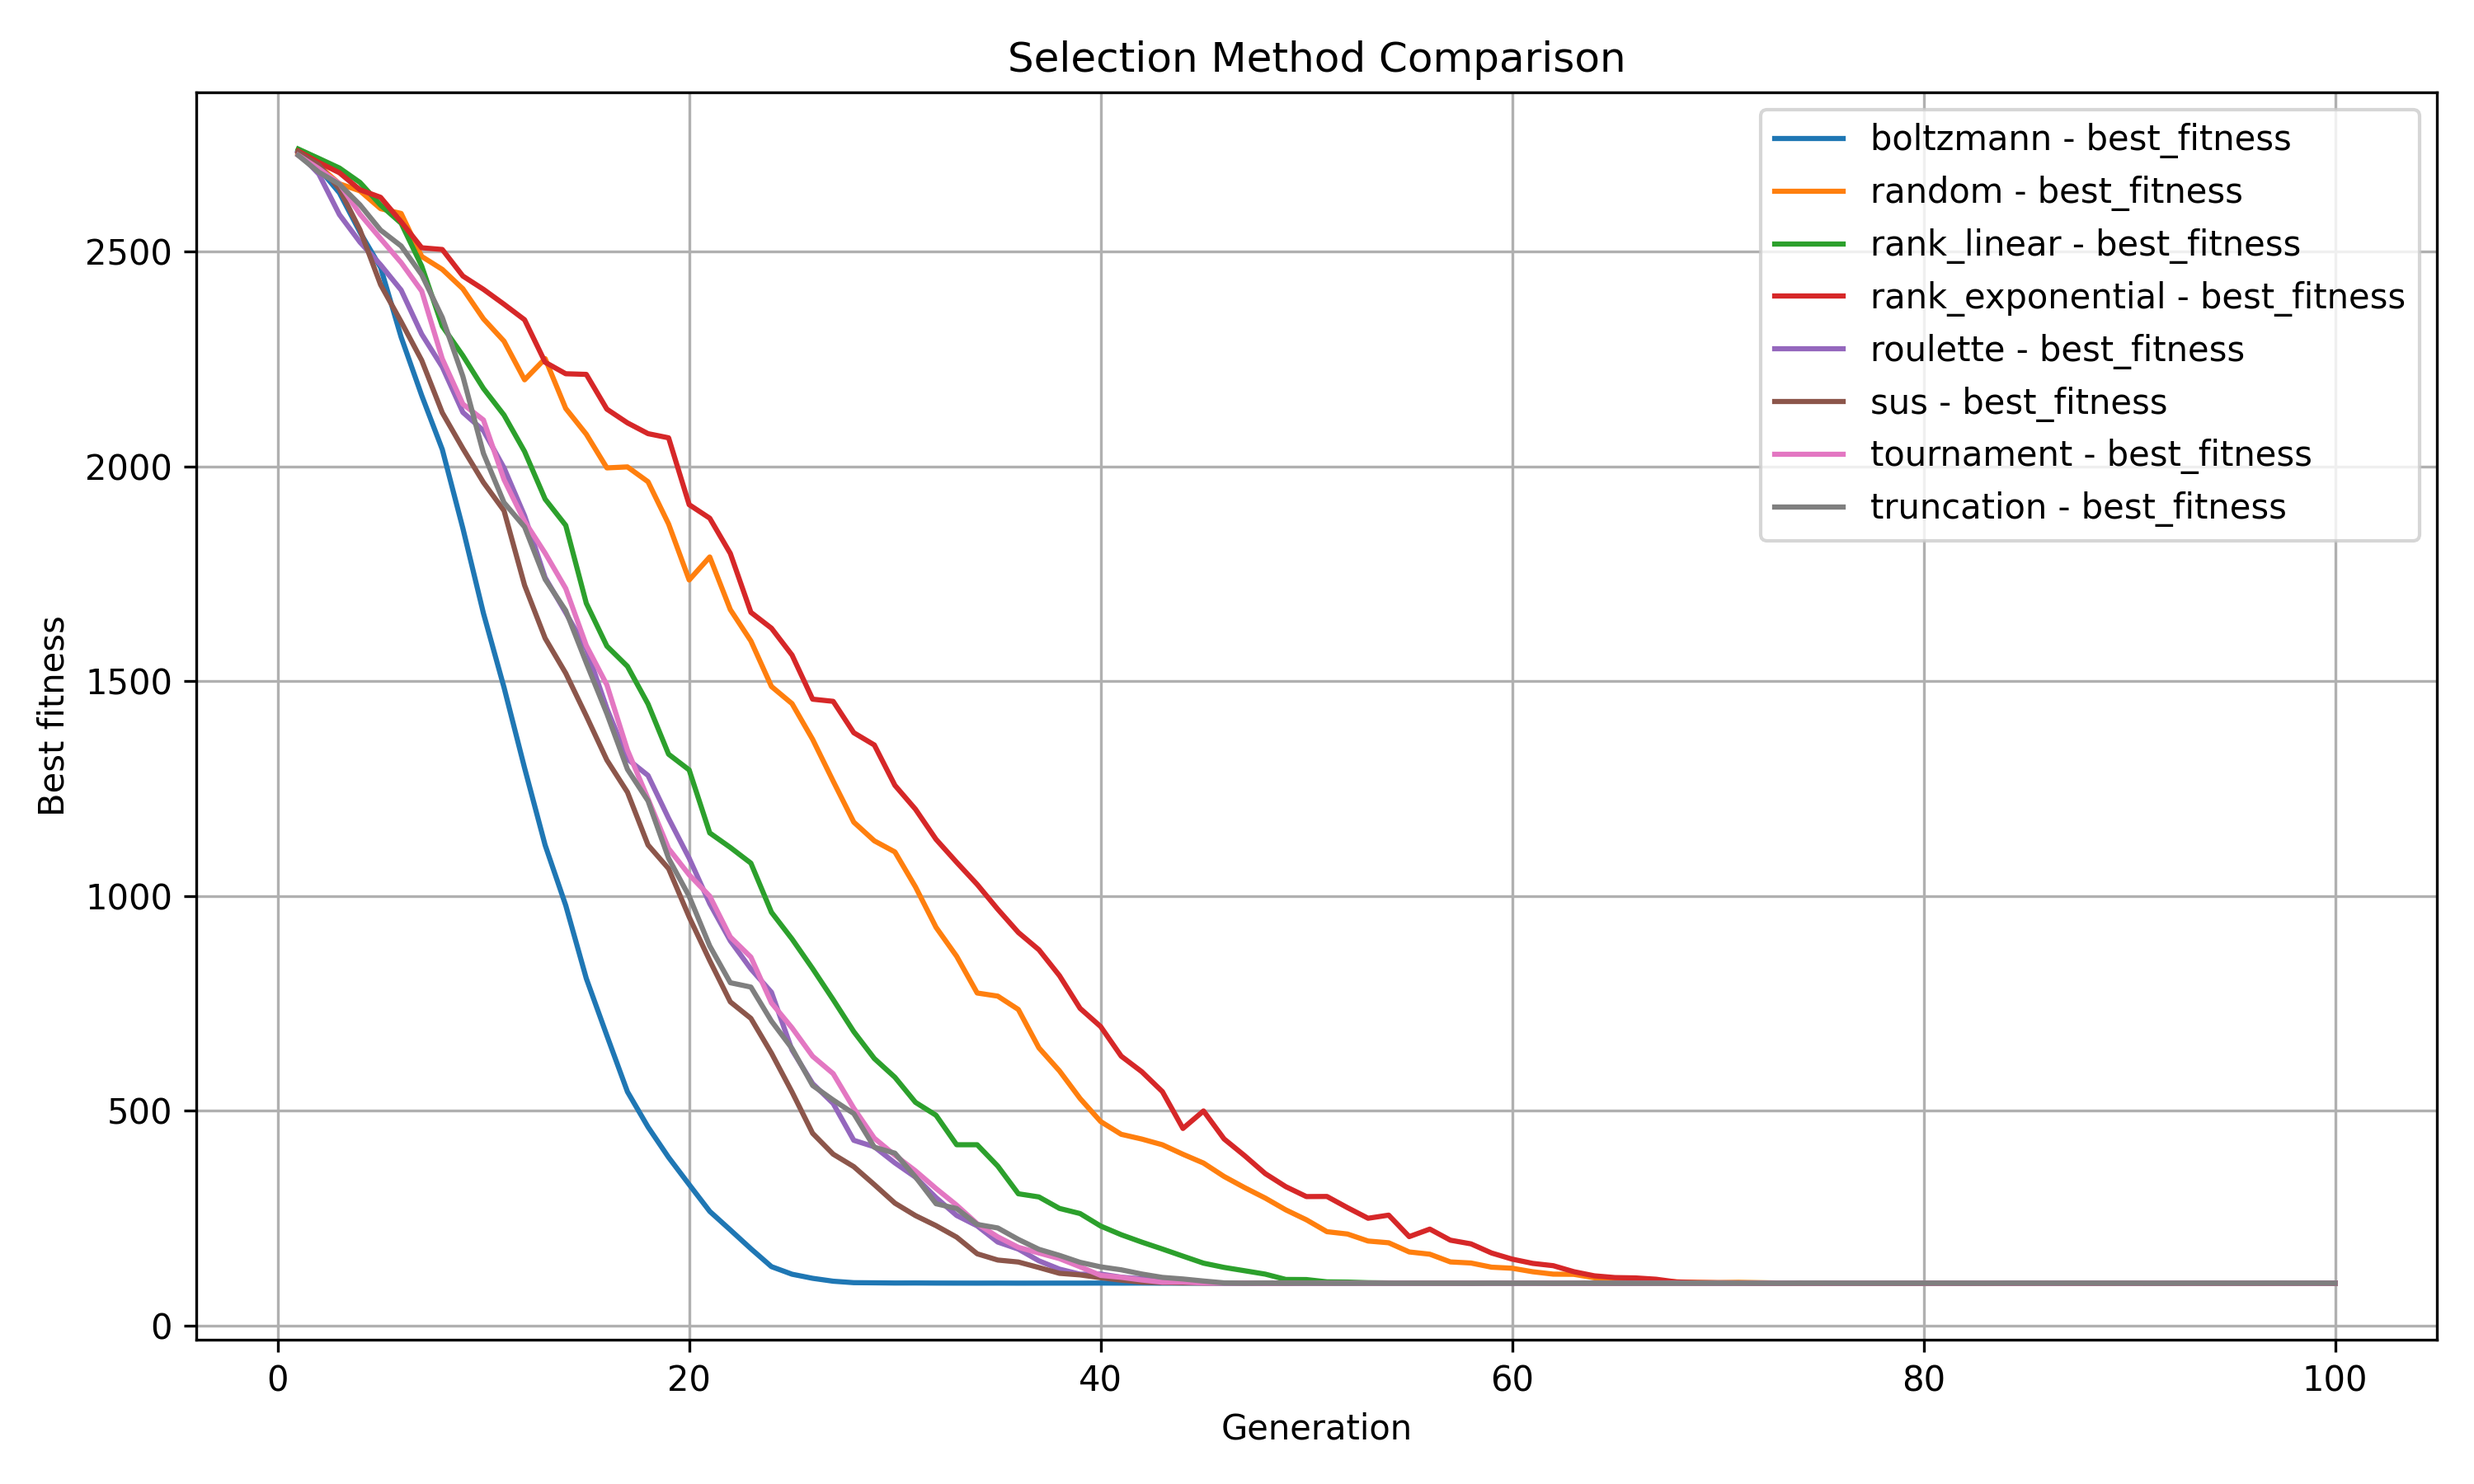
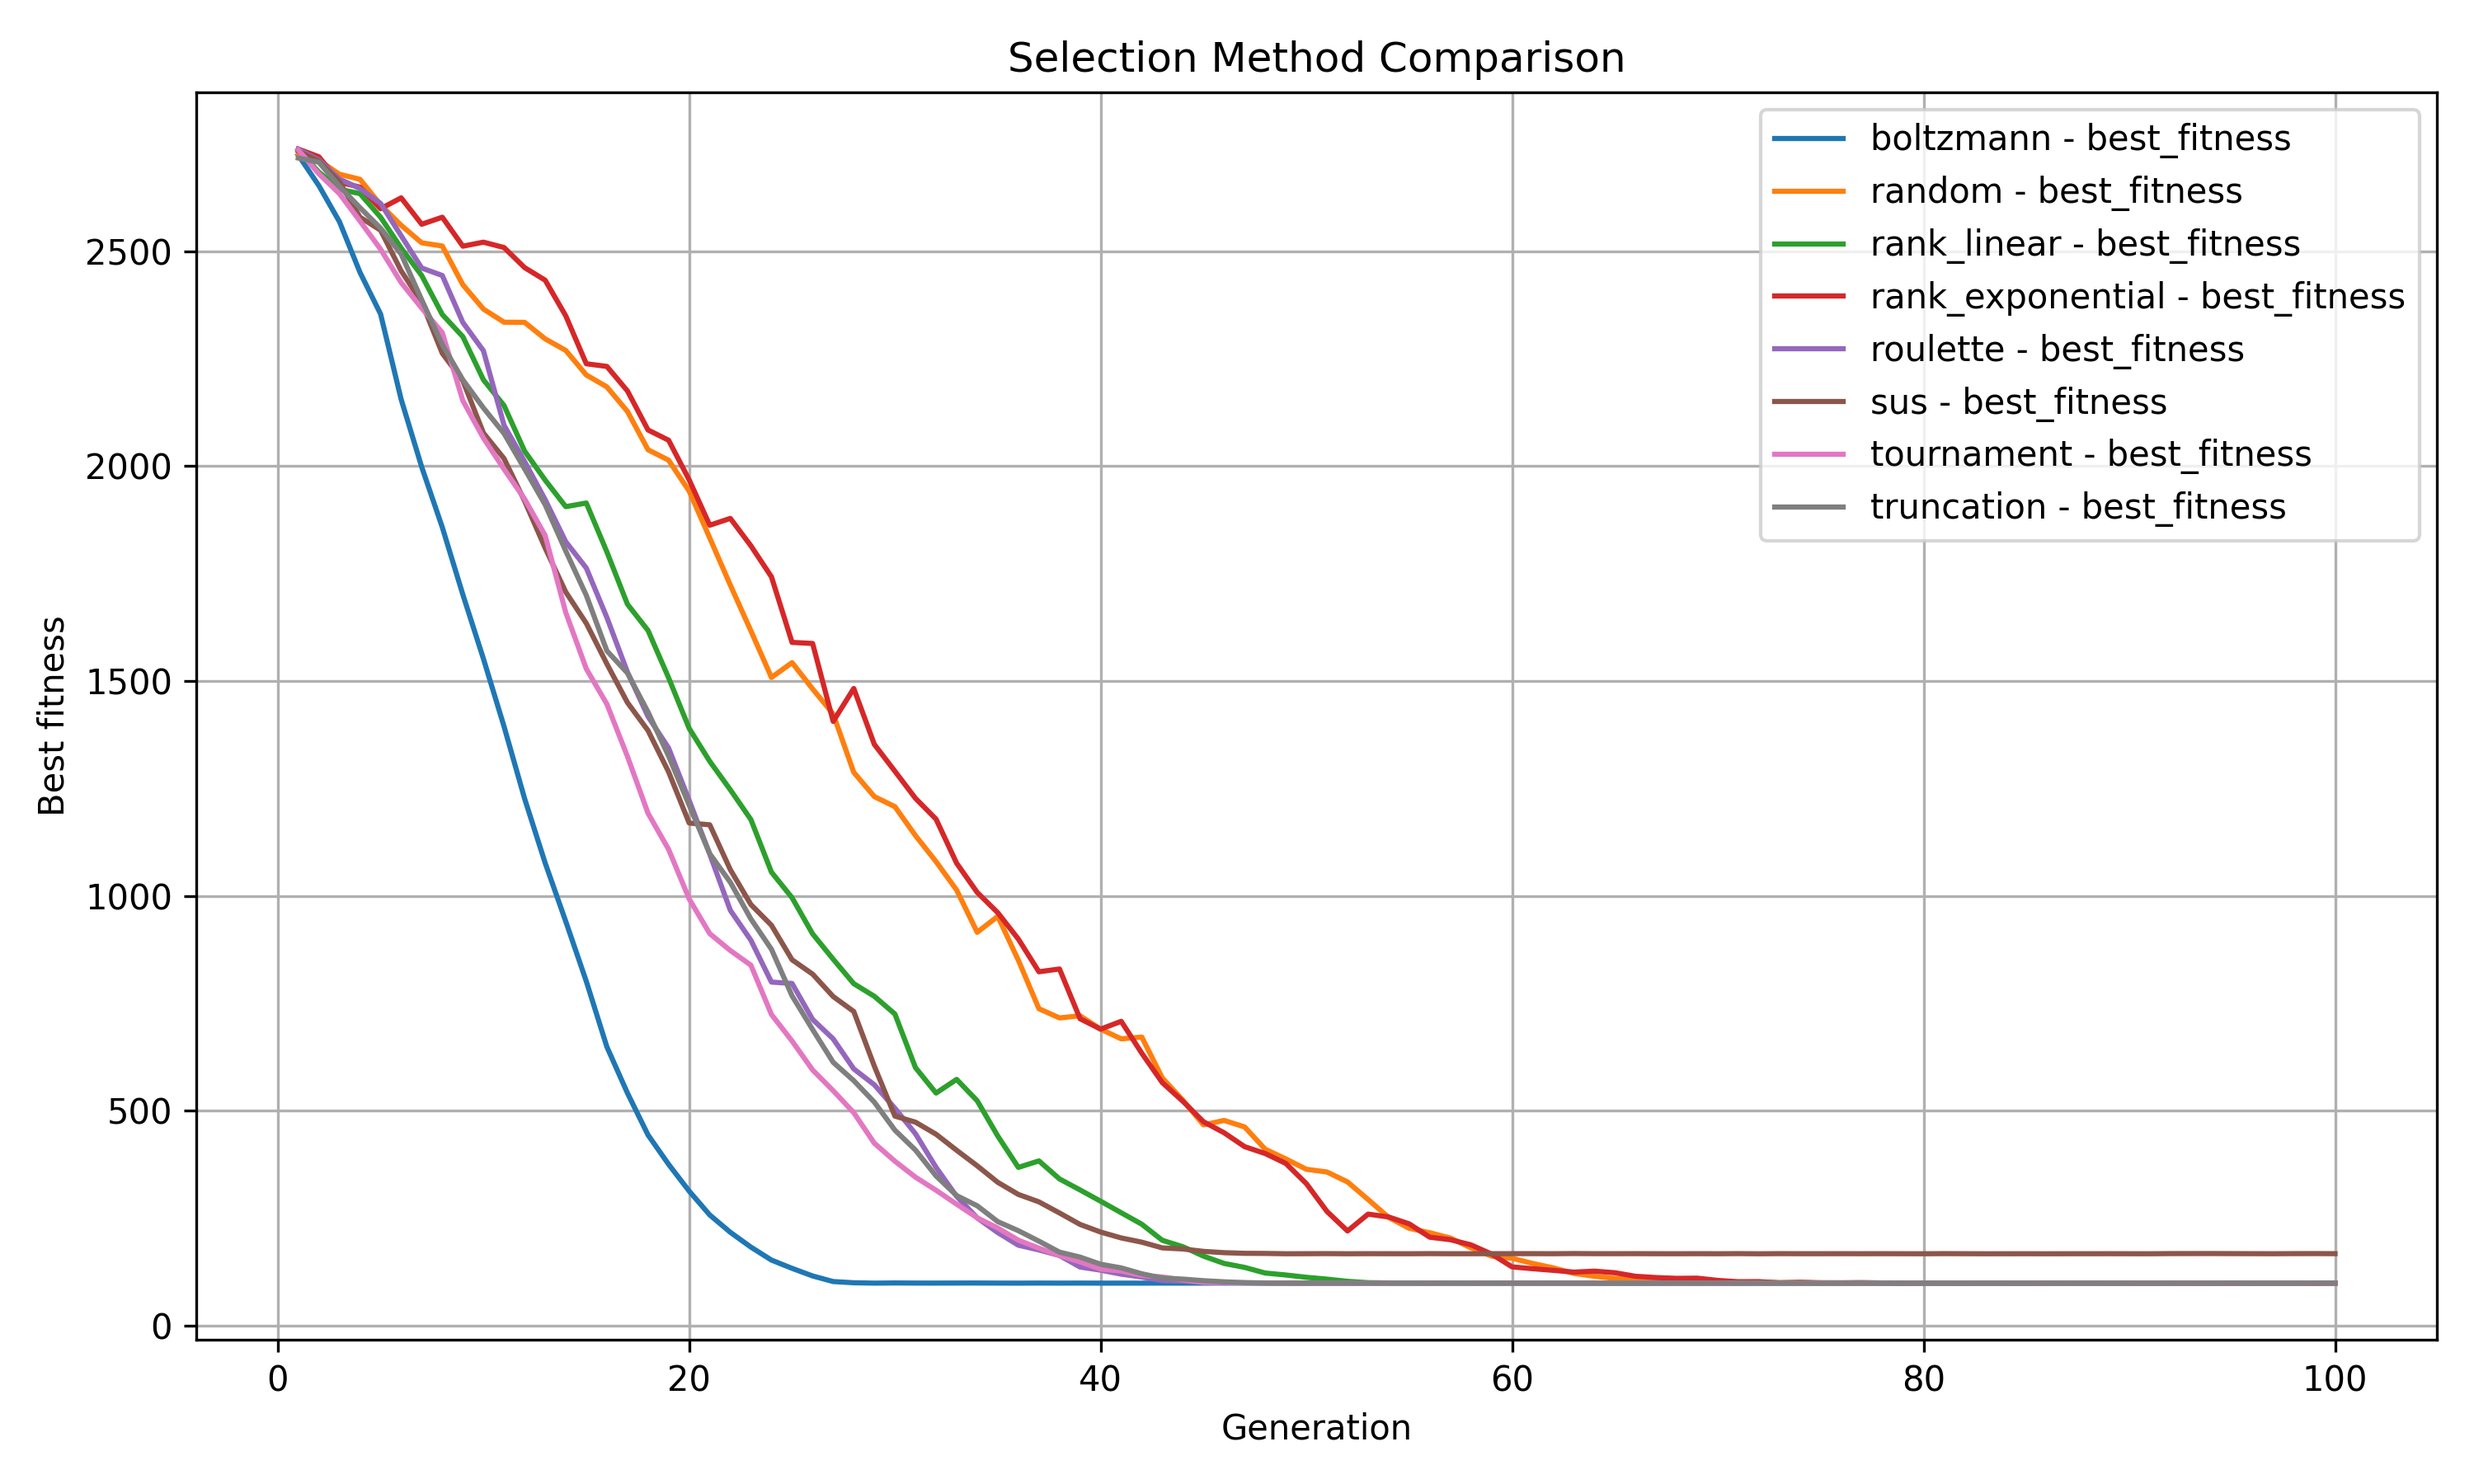
add 08_selection_pressure.py to demonstrate impact of num_parents

Changed region(s): [[0.124, 0.0933, 0.93, 0.8711], [0.248, 0.7467, 0.279, 0.8089], [0.31, 0.84, 0.341, 0.8711]]

diff --git a/examples/03_analysis/08_selection_pressure.py b/examples/03_analysis/08_selection_pressure.py
@@ -1,0 +1,62 @@
+"""
+Example 08 – Selection Pressure via num_parents (fixed strategy)
+
+This script illustrates how selection pressure changes with the number of parents. A
+fixed selection strategy (e.g. rank_linear) is used, and only num_parents is varied.
+"""
+
+import random
+
+import numpy as np
+import pandas as pd
+
+from evolib import (
+    Indiv,
+    Pop,
+    mse_loss,
+    plot_fitness_comparison,
+    rastrigin,
+)
+
+random.seed(42)
+np.random.seed(42)
+
+
+# Fitness function
+def my_fitness(indiv: Indiv) -> None:
+    target = np.zeros(indiv.para.dim)
+    predicted = rastrigin(indiv.para.vector)
+    indiv.fitness = mse_loss(target, predicted)
+
+
+def run(config_path: str) -> pd.DataFrame:
+    pop = Pop(config_path)
+    pop.set_functions(fitness_function=my_fitness)
+
+    for _ in range(pop.max_generations):
+        pop.run_one_generation()
+
+    return pop.history_logger.to_dataframe()
+
+
+# Variation over num_parents
+config_variants = {
+    "num_parents=10": "./08_selection_pressure_configs/08_selection_pressure_10.yaml",
+    "num_parents=20": "./08_selection_pressure_configs/08_selection_pressure_20.yaml",
+    "num_parents=40": "./08_selection_pressure_configs/08_selection_pressure_40.yaml",
+    "num_parents=80": "./08_selection_pressure_configs/08_selection_pressure_80.yaml",
+}
+
+runs = {}
+for label, path in config_variants.items():
+    print(f"Running {label}")
+    runs[label] = run(path)
+
+# Plot results
+plot_fitness_comparison(
+    histories=list(runs.values()),
+    labels=list(runs.keys()),
+    metric="best_fitness",
+    title="Impact of num_parents on Selection Pressure (rank_linear)",
+    save_path="figures/08_selection_pressure.png",
+)

diff --git a/examples/03_analysis/07_selection_comparison.py b/examples/03_analysis/07_selection_comparison.py
@@ -14,8 +14,13 @@ Included selection methods:
 - Random
 - Truncation
 
-Each method is defined via a separate YAML config file. After the runs, best fitness
-trajectories are plotted to visualize convergence behavior and selection pressure.
+Each method is defined via a separate YAML config file. All runs use the same
+offspring pool size (λ) and select 20 parents per generation (num_parents = 20),
+creating a moderate selection pressure. This helps highlight differences between
+selection strategies in terms of convergence behavior and robustness.
+
+After the runs, best fitness trajectories are plotted to visualize and compare
+selection performance.
 """
 
 import numpy as np
